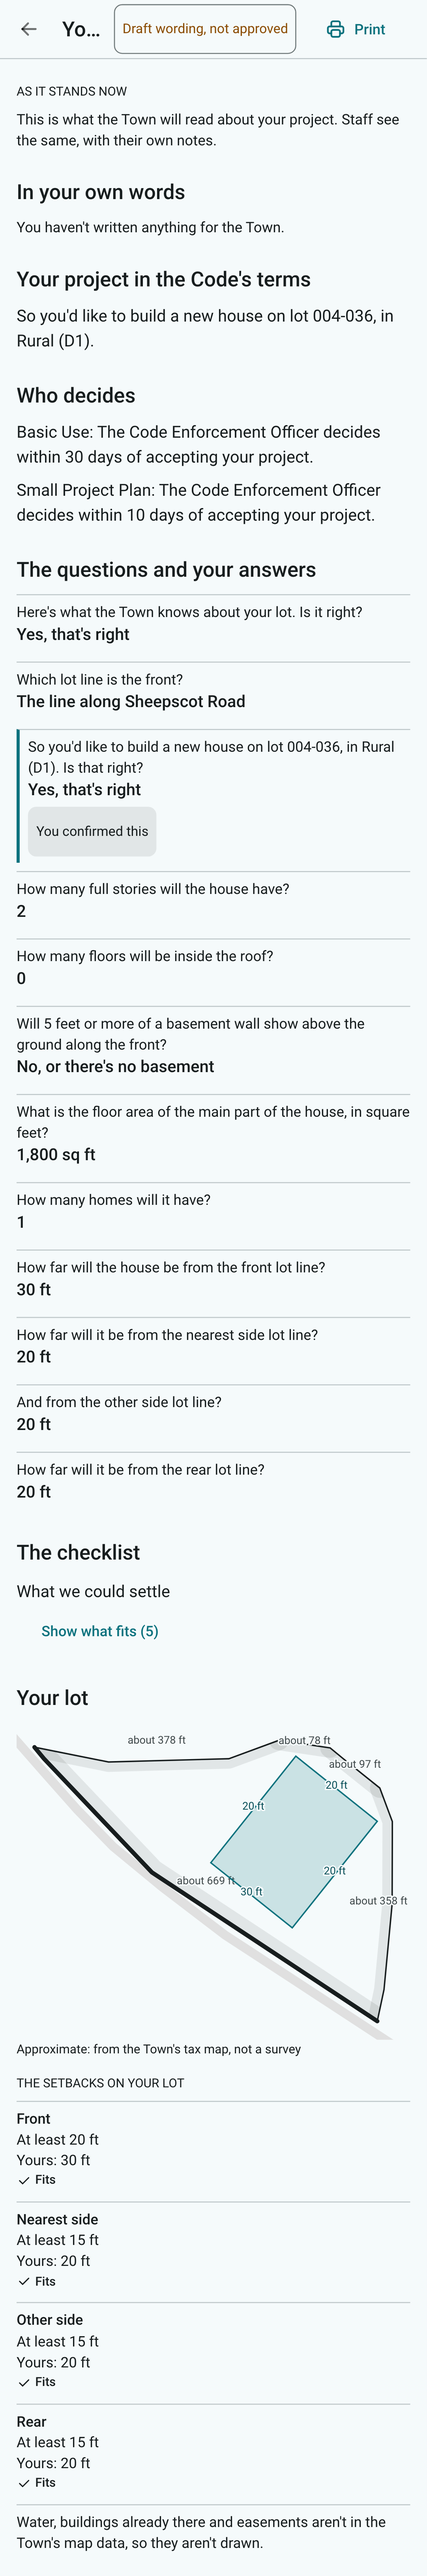
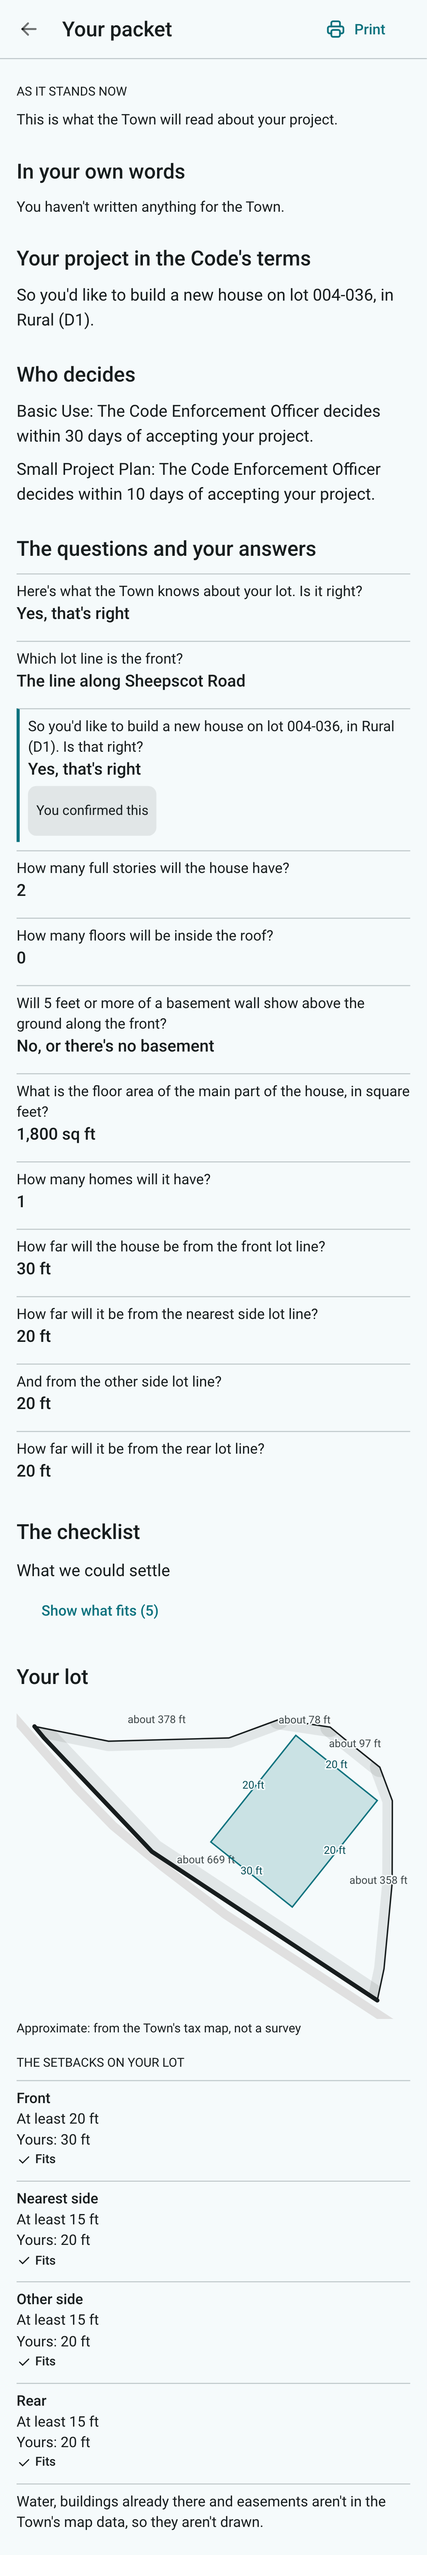
portal: the packet memo's screenshots, retaken after the chair's decisions

diff --git a/memos/2026-11-06-guided-builder-packet-for-approval.md b/memos/2026-11-06-guided-builder-packet-for-approval.md
@@ -20,8 +20,7 @@
 4. **Who decides, where a review has no decision sentence:** the review's name and its approved
    reviewer, as shown.
 
-The screenshots in section 1 were taken before these decisions, so they still show the longer
-intro and the draft chip.
+The screenshots in section 1 were retaken on 2026-11-07, after these decisions.
 
 ---
 
